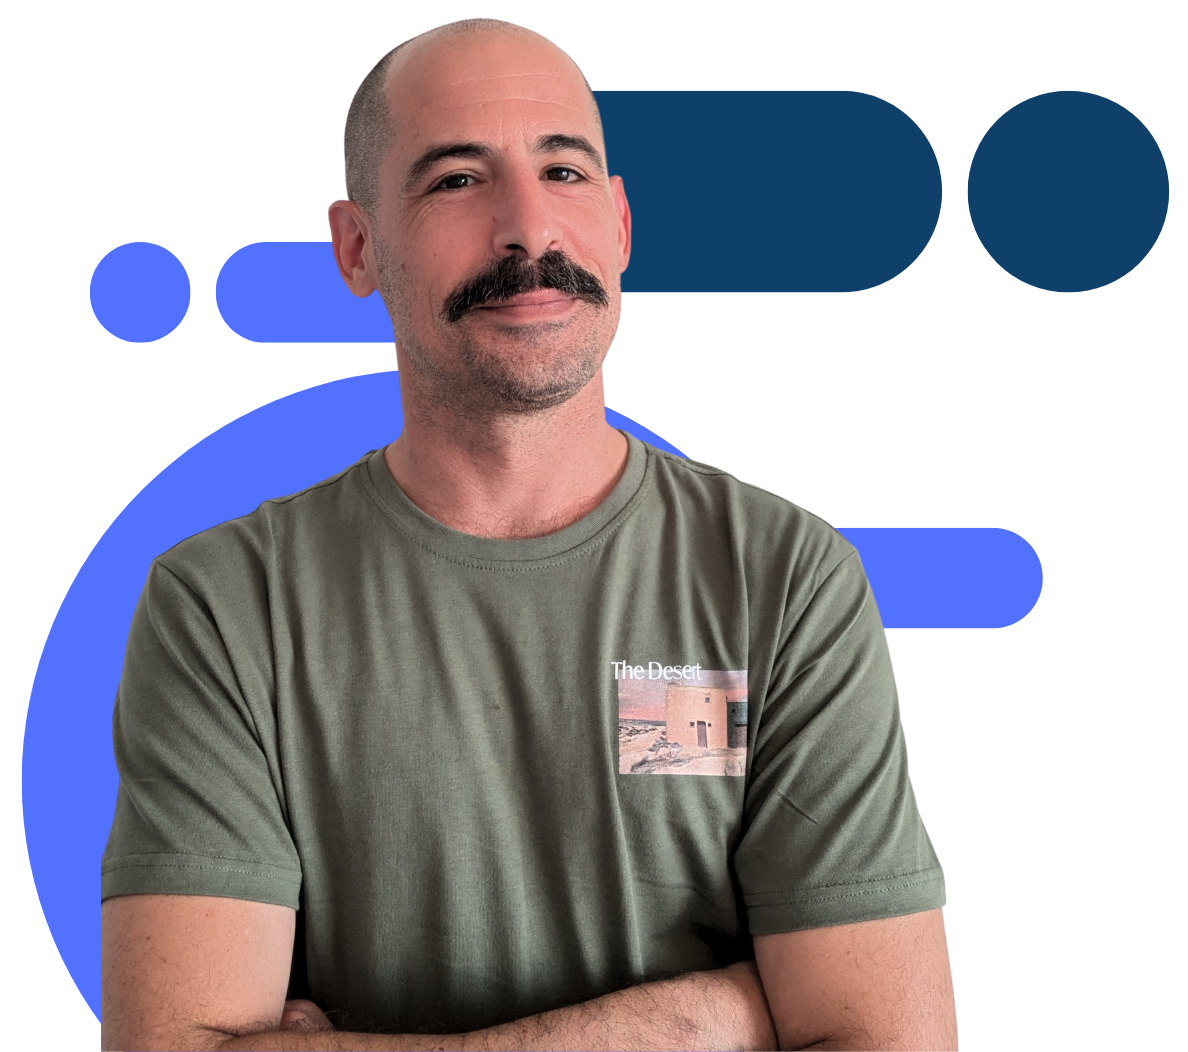
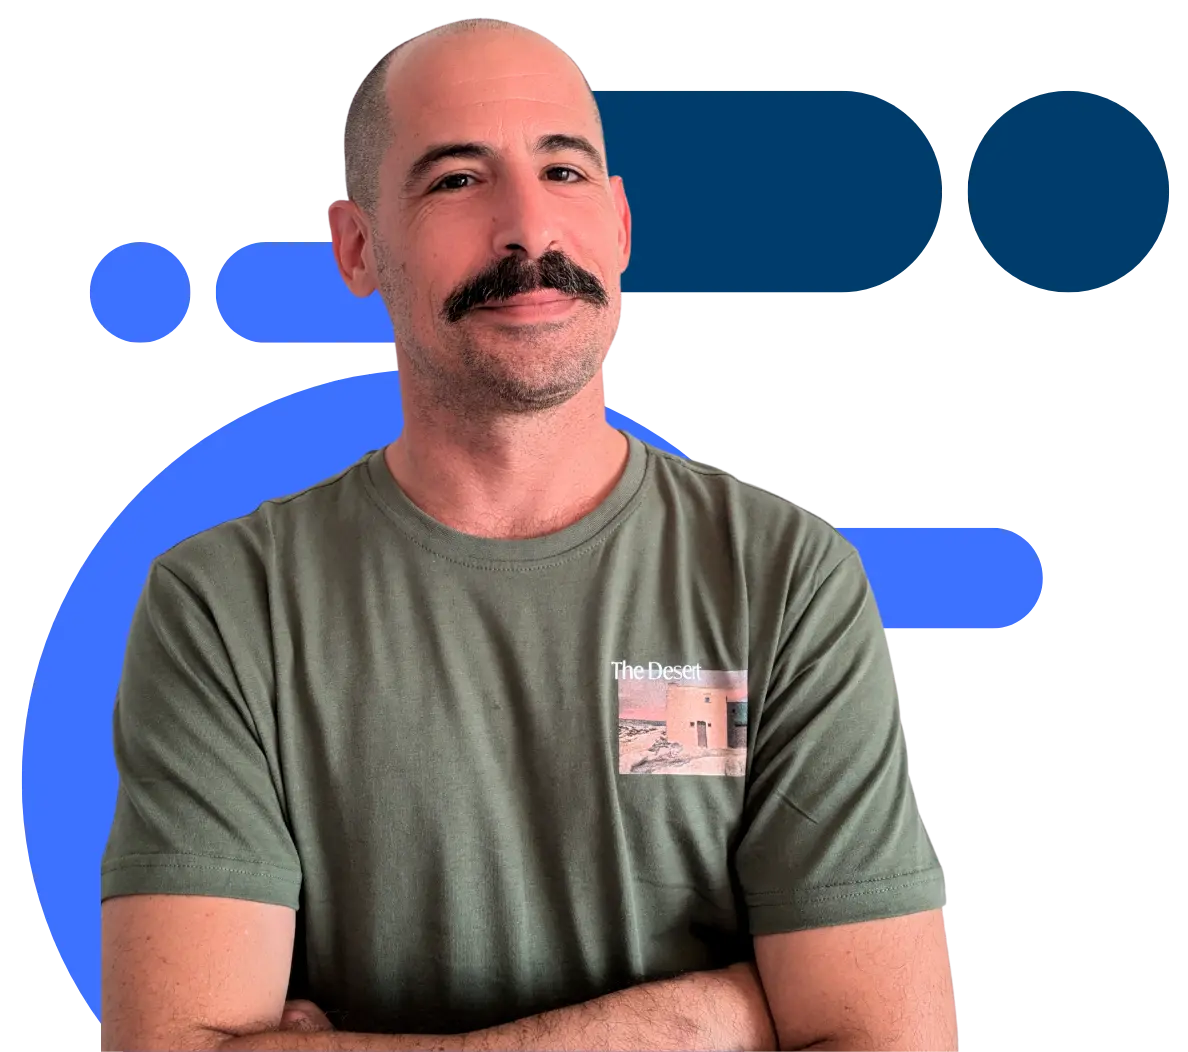
fotos webp

diff --git a/web-portfolio/src/components/Projects.jsx b/web-portfolio/src/components/Projects.jsx
@@ -9,8 +9,8 @@ const Projects = () => {
       description:
         "Gestión integral de espacios. Calendario, reservas, incidencias y chat en tiempo real.",
       images: [
-        "/Web-Portfolio/coworking.PNG",
-        "/Web-Portfolio/coworkingPc.PNG",
+        "/Web-Portfolio/coworking.webp",
+        "/Web-Portfolio/coworkingPc.webp",
       ],
       tech: [
         "HTML",
@@ -30,7 +30,7 @@ const Projects = () => {
       images: [
         "/Web-Portfolio/portfolio.PNG",
         "/Web-Portfolio/portfolioMovil.PNG",
-        "/Web-Portfolio/portfolioPc.PNG",
+        "/Web-Portfolio/portfolioPc.webp",
       ],
       tech: ["HTML", "CSS", "JavaScript", "React + Vite", "Tailwind"],
       link: "https://antgom.github.io/Web-Portfolio/",
